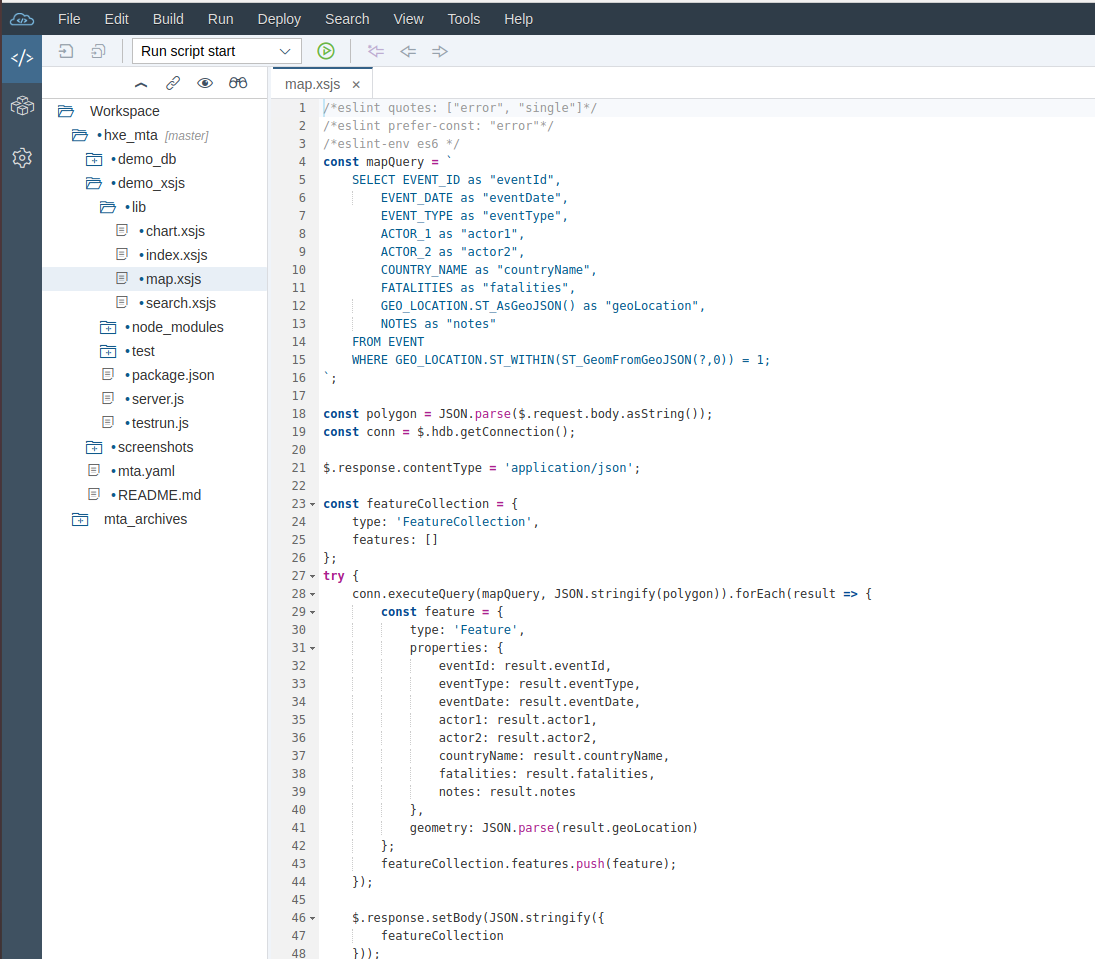
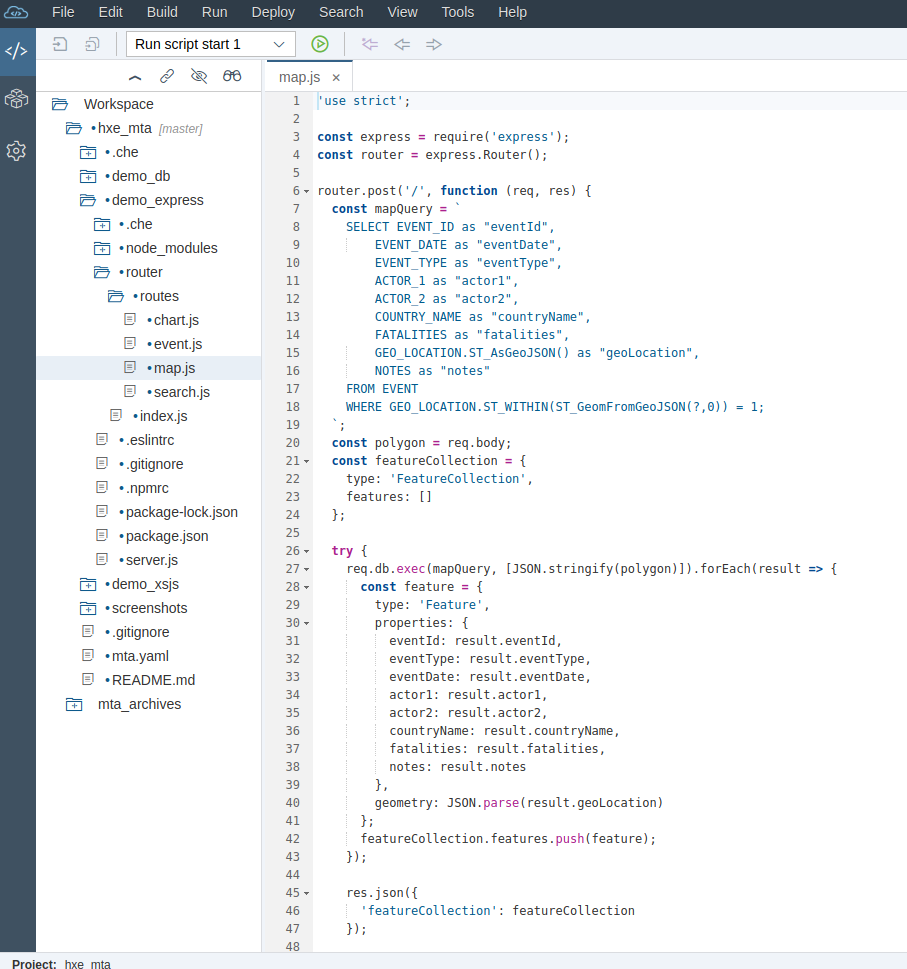
update documentation for express and xsjs

diff --git a/README.md b/README.md
@@ -1,5 +1,5 @@
 # hxe-mta
-A [SAP HANA](https://developers.sap.com/topics/sap-webide.html) multi target application that loads data provided by the [Armed Conflict Location & Event Data](https://www.acleddata.com) project and provides a REST API to power data viewing, search, charts and spatial queries.  
+A [SAP HANA](https://developers.sap.com/topics/sap-webide.html) multi target application that loads data provided by the [Armed Conflict Location & Event Data](https://www.acleddata.com) project and provides two options for a REST API to power data viewing, search, charts and spatial queries.  
 
 This application was developed using [SAP HANA Express](https://developers.sap.com/topics/sap-hana.html)
 
@@ -23,19 +23,25 @@ This will create the **EVENT** table, full-text index for search and load data f
 
 ### Build and deploy the node service
 
-> right-click on **demo_api** -> build -> build
+There are two implementations of the REST API, one based on **xsjs** and the other on standard [Express](https://expressjs.com/). Both return the same exact same results and have the same urls. 
+
+* Use the Express implementation if you are already familiar with node. If gives you all the flexibility of the working just with Express but requires you to wire your own routes.
+
+* Even though **xsjs** uses Express as well, it is obfuscated. Use **xsjs** if you are not already familiar with node as the HANA webide does all the wiring code for you.
+
+> right-click on **demo_express** or **demo_xsjs** -> build -> build
 
 After building, deploy the application
 
-> right-click on **demo_api** -> Run -> Run as Node.js Application
+> right-click on **demo_express** or **demo_xsjs** -> Run -> Run as Node.js Application
 
 Thats it! Your application will be running on the link shown in the console
 
 ## Develop locally
 
-The `demo_xsjs` node service can be developed locally by adding **one** file.
+The `demo_express` or `demo_xsjs` node service can be developed locally by adding **one** file.
 
-Create `default-services.json` inside the `hxe_mta/demo_xsjs` folder. Add the following to the file
+Create `default-services.json` inside the `/tmp` folder (this path can be changed in `server.js`). Add the following to the file
 
 ```json
 {
@@ -87,7 +93,7 @@ Then to start the nodejs application, run
 npm run start
 ```
 
-### Highlighting in VSCode
+### Optional Highlighting in VSCode
 
 To get syntax highlighting for `xsjs` files, open the app Settings
 
